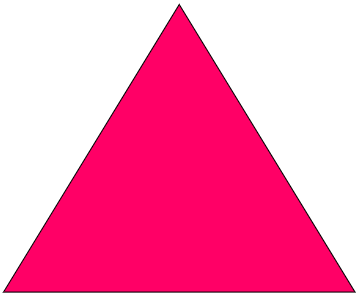
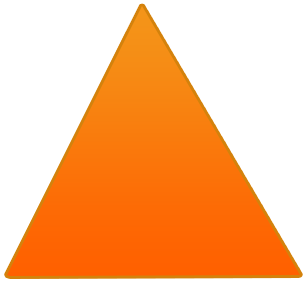
actualizacion y arreglos de css

diff --git a/figuras.html b/figuras.html
@@ -11,14 +11,7 @@
 
 <body>
     <header>
-        <nav>
-            <ul>
-                <li><a id="colorCuadrado" href="#cuadrado">Cuadrado</a></li>
-                <li><a id="colorTriangulo" href="#triangulo">Triangulo</a></li>
-                <li><a id="colorCirculo" href="#circulo">Circulo</a></li>
-                <li><a id="colorTrianguloIso" href="#trianguloIso">Triangulo isosceles</a></li>
-            </ul>
-        </nav>
+
         <div class="entrada">
             <h1>Figuras Geometrica</h1>
         </div>
@@ -29,9 +22,7 @@
         <img src="img/Cuadrado.png" alt="Cuadrado" width="300px">
 
         <form>
-            <p>
-                <label for="inputCuadrado">Tamaño del los lados del Cuadrado</label>
-            </p>
+ 
             <p> <input id="inputCuadrado" type="number"></p>
             <p>
                 <button class="botton1" type="button" onclick="calcularPerimetroCuadrado()">Calcular perimetro</button>
@@ -46,9 +37,7 @@
         <h2>Triangulo</h2>
         <img src="img/Triangulo.png" alt="Triangulo" width="300px">
         <form>
-            <p>
-                <label for="inputTriangulo">Escribe cuanto mide cada lado de tu triangulo</label>
-            </p>
+  
             <p> 
                 <label for="inputTrianguloLado1">Lado 1:</label>
                 <input id="inputTrianguloLado1" type="number">
@@ -69,8 +58,7 @@
                 <button class="botton1" type="button" onclick="calcularPerimetroTriangulo()">Calcular perimetro</button>
                 <button class="botton2" type="button" onclick="CalcularAreaTriangulo()">Calcular Area</button>
             </p>
-            <h3>Resultado</h3>
-            <p class="resultadoTriangulo" id="resultadoTriangulo"></p>
+            <p class="resultadoTriangulo" id="resultadoTriangulo">Resultado</p>
 
         </form>
     </section>
@@ -79,16 +67,14 @@
         <h2>Circulo</h2>
         <img src="img/Circulo.png" alt="Circulo" width="300px">
         <form>
-            <p>
-                <label for="inputCirculo">Escribe cuanto mide cada lado de tu Circulo</label>
-            </p>
+  
             <p> <input id="inputCirculo" type="number"></p>
             <p>
                 <button class="botton1" type="button" onclick="calcularPerimetroCirculo()">Calcular perimetro</button>
                 <button class="botton2" type="button" onclick="calcularAreaCirculo()">Calcular Area</button>
             </p>
-            <h3>Resultado</h3>
-            <p class="resultadoCirculo" id="resultadoCirculo"></p>
+
+            <p class="resultadoCirculo" id="resultadoCirculo">Resultado</p>
 
         </form>
     </section>
@@ -96,11 +82,9 @@
     
     <section id="trianguloIso">
         <h2>Triangulo isosceles</h2>
-        <img src="img/Triangulo.png" alt="Triangulo isosceles" width="300px">
+        <img src="img/TrianguloIso.png" alt="Triangulo isosceles" width="300px">
         <form>
-            <p>
-                <label for="inputTriangulo">Escribe cuanto mide cada lado de tu triangulo isosceles</label>
-            </p>
+
             <p> 
                 <label for="inputLado1">Lado 1:</label>
                 <input id="inputLado1" type="number">
@@ -115,10 +99,10 @@
             </p>
 
             <p>
-                <button class="botton2" type="button" onclick="CalcularAreaTrianguloIso()">Calcular Area</button>
+                <button class="botton2" type="button" onclick="CalcularAreaTrianguloIso()">Calcular Altura</button>
             </p>
-            <h3>Resultado</h3>
-            <p class="resultadoTrianguloIso" id="resultadoTrianguloIso"></p>
+
+            <p class="resultadoTrianguloIso" id="resultadoTrianguloIso">Resultado</p>
 
         </form>
     </section>

diff --git a/figuras.css b/figuras.css
@@ -12,36 +12,6 @@ body{
 
     text-align: center;
 }
-nav{
-    width: 100%;
-    height: 50px;
-
-    line-height: 50px;
-
-}
-nav ul{
-    display: inline-block;
-    list-style: none;
-}
-
-nav li{
-    float: left;
-}
-
-nav a{
-    display: block;
-    text-decoration: none;
-    padding-left: 20px;
-    padding-right: 20px;
-    color: #000000;
-    font-weight: 500;
-    font-size: 20px;
-}
-
-nav a:hover{
-    background-color: white;
-    color: #A93226;
-}
 
 .entrada{
     height: 300px;
@@ -55,21 +25,18 @@ nav a:hover{
 
 section{
     height: 600px;
-    width: 100%;
-    margin-bottom: 10px;
+    width: 48%;
+    float: left;
+    border: 1px dashed black;
+    margin-left: 15px;
+    margin-bottom: 15px;
+    padding-top: 20px;
 }
 
-#cuadrado{
-    margin-bottom: -100px;
-}
-
-#triangulo{
-    margin-bottom: 50px;
-}
 
 
 section h2{
-    margin-top: 115px;
+
     margin-bottom: 15px;
 }
 
@@ -92,7 +59,7 @@ input[type="number"]{
 }
 
 .botton1:hover, .botton2:hover{
-    background-color: #A93226;
+    background-color: #141313;
     color: white;
 }
 
@@ -114,7 +81,7 @@ input[type="number"]{
     margin: 0px auto;
     margin-top: 10px;
     border-radius: 5px;
-    font-weight: 800;
+
 }
 
 h3{
@@ -156,4 +123,8 @@ h3{
 #colorTrianguloIso:hover{
     background-color: #45a5dd;
     color: black;
+}
+
+img{
+    width: 200px;
 }
